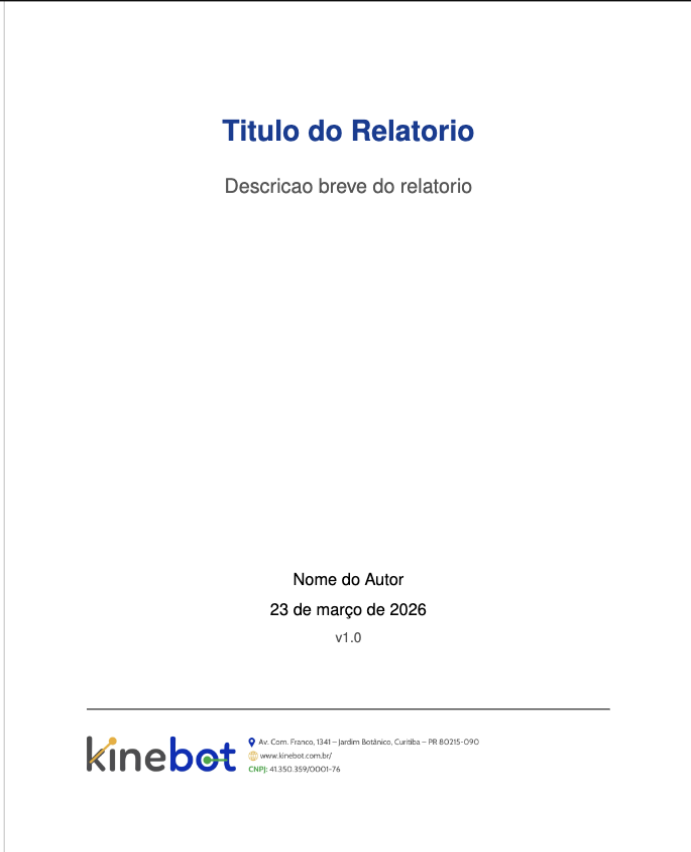
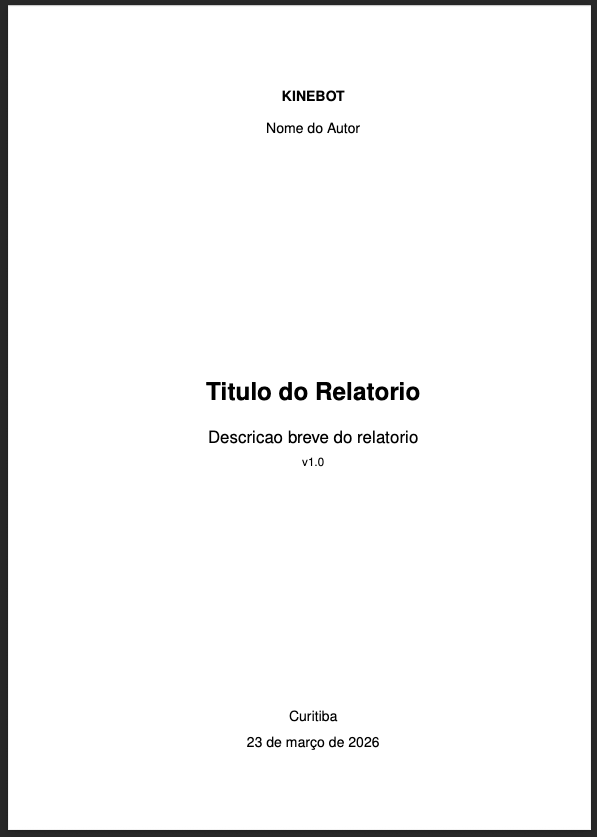
feat: add ABNT formatting and restrict footer to content pages
- ABNT NBR 14724 compliance: margins 3/3/2/3cm, 1.5 line spacing,
  1.25cm paragraph indent, bold uppercase sections
- Footer banner now appears only after the table of contents
- Cover page and ToC text set to black
- Added babel pt-BR, setspace, titlesec, indentfirst packages
- Added city field for cover page
- Updated README with ABNT compliance table

diff --git a/main.tex b/main.tex
@@ -9,16 +9,23 @@
 \reportauthor{Nome do Autor}
 \reportdate{\today}
 \reportref{v1.0}
+\reportcity{Curitiba}
 
 % =============================================================================
 % Documento
 % =============================================================================
 \begin{document}
 
+% --- Elementos pre-textuais (sem rodape, sem numeracao) ---
+\pagenumbering{gobble}
 \makecover
 
 \tableofcontents
-\newpage
+\cleardoublepage
+
+% --- Elementos textuais (com rodape e numeracao) ---
+\pagenumbering{arabic}
+\pagestyle{fancy}
 
 \section{Introducao}
 

diff --git a/README.md b/README.md
@@ -1,10 +1,33 @@
 # Kinebot LaTeX Report Template
 
-LaTeX template for Kinebot company reports.
+LaTeX template for Kinebot company reports, formatted according to **ABNT** (Brazilian standards).
+
+## ABNT Formatting (NBR 14724)
+
+| Setting | Value | ABNT Requirement |
+|---|---|---|
+| Paper | A4 | A4 |
+| Top margin | 3cm | 3cm |
+| Bottom margin | 3cm* | 2cm |
+| Left margin | 3cm | 3cm |
+| Right margin | 2cm | 2cm |
+| Font | Arial (Helvetica) 12pt | Arial or Times New Roman 12pt |
+| Line spacing | 1.5 | 1.5 |
+| Paragraph indent | 1.25cm | 1.25cm |
+| First paragraph | Indented | Indented |
+| Sections | Bold uppercase | Bold uppercase |
+| Subsections | Bold | Bold |
+| Subsubsections | Bold italic | Bold italic |
+| Language | pt-BR | Portuguese |
+| Page numbers | Top right, Arabic | Top right, starting from first content page |
+
+> *Bottom margin is 3cm instead of the standard 2cm to accommodate the footer banner.
+
+### Footer Banner
+
+The company footer banner appears **only on content pages** (after the table of contents). The cover page and table of contents have no footer.
 
 ## Preview
-
-The company footer banner appears on every page of the report, as shown below.
 
 ### Cover Page
 
@@ -18,7 +41,7 @@ The company footer banner appears on every page of the report, as shown below.
 
 ![Content](images/content.png)
 
-> **Note:** The table of contents and content screenshots are cropped — the footer banner is present at the bottom of every page, as seen in the cover page screenshot.
+> **Note:** The screenshots above are from a previous version. The current template has black text on the cover page, no footer on the cover/ToC, and ABNT-compliant formatting.
 
 ## Prerequisites
 
@@ -28,7 +51,7 @@ A LaTeX distribution installed:
 - **Linux**: TeX Live (`sudo apt install texlive-full` or equivalent)
 - **Windows**: [MikTeX](https://miktex.org/)
 
-All packages used (`fancyhdr`, `geometry`, `graphicx`, `helvet`, `hyperref`, `xcolor`, `babel`) are included in standard distributions.
+All packages used (`fancyhdr`, `geometry`, `graphicx`, `helvet`, `hyperref`, `xcolor`, `babel`, `setspace`, `titlesec`, `indentfirst`) are included in standard distributions.
 
 ## Project Structure
 
@@ -74,6 +97,7 @@ latexmk -c
 \reportauthor{Author Name}
 \reportdate{\today}
 \reportref{v1.0}
+\reportcity{Curitiba}
 ```
 
 3. Write your content in sections:
@@ -97,22 +121,27 @@ More details.
 | `\reportauthor{...}` | Report author(s) |
 | `\reportdate{...}` | Date (default: `\today`) |
 | `\reportref{...}` | Document version |
+| `\reportcity{...}` | City (default: `Curitiba`) |
 | `\makecover` | Generates the cover page |
 
 ## Customization
 
 ### Margins
 
-Margins are defined in `kinebot.sty`. If the footer banner height changes, adjust the bottom margin and `\footskip` proportionally:
+Margins follow ABNT standards and are defined in `kinebot.sty`:
 
 ```latex
-% In kinebot.sty
+% In kinebot.sty (ABNT NBR 14724)
 \RequirePackage[
-  ...
-  bottom=3.0cm  % Adjust based on banner height
+  a4paper,
+  top=3cm,
+  left=3cm,
+  right=2cm,
+  bottom=3cm
 ]{geometry}
-\setlength{\footskip}{1.8cm}  % Adjust together with bottom
 ```
+
+If the footer banner height changes, adjust `bottom` and `\footskip` proportionally.
 
 ### Including Figures
 
